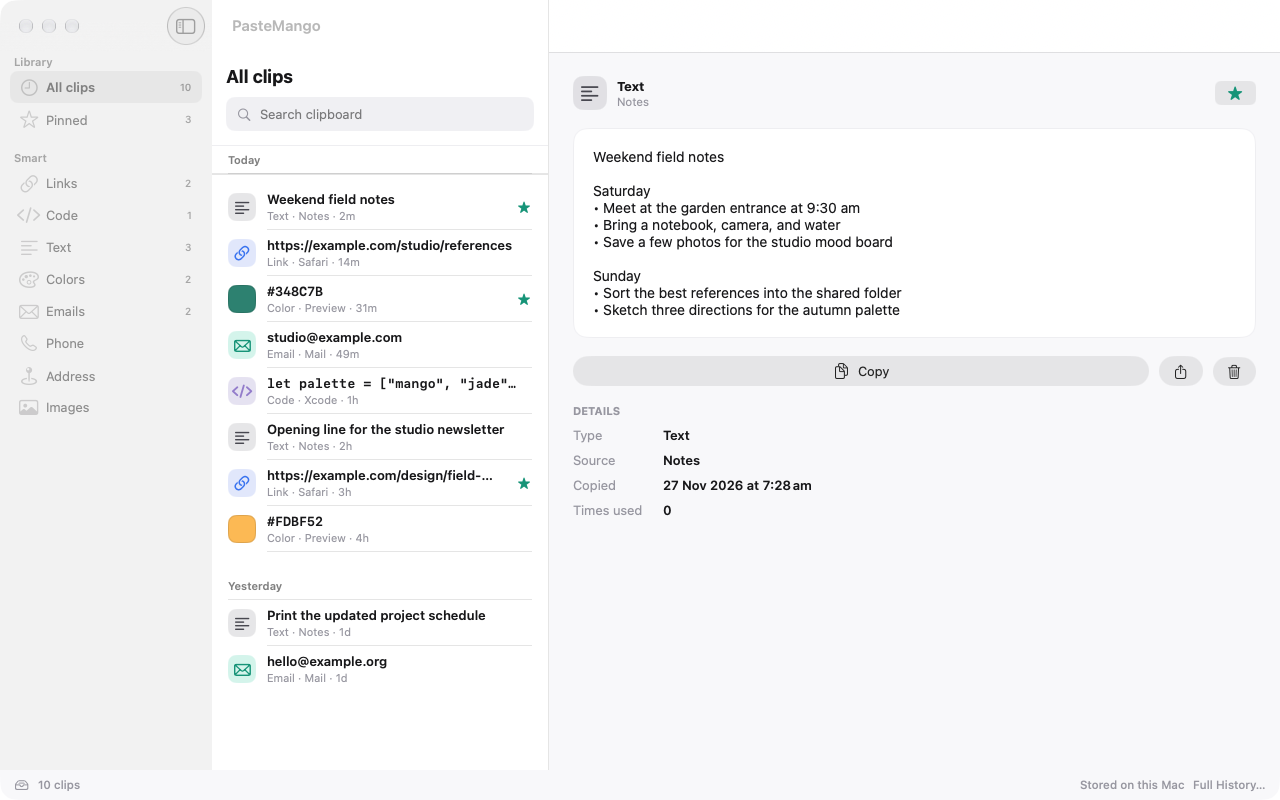
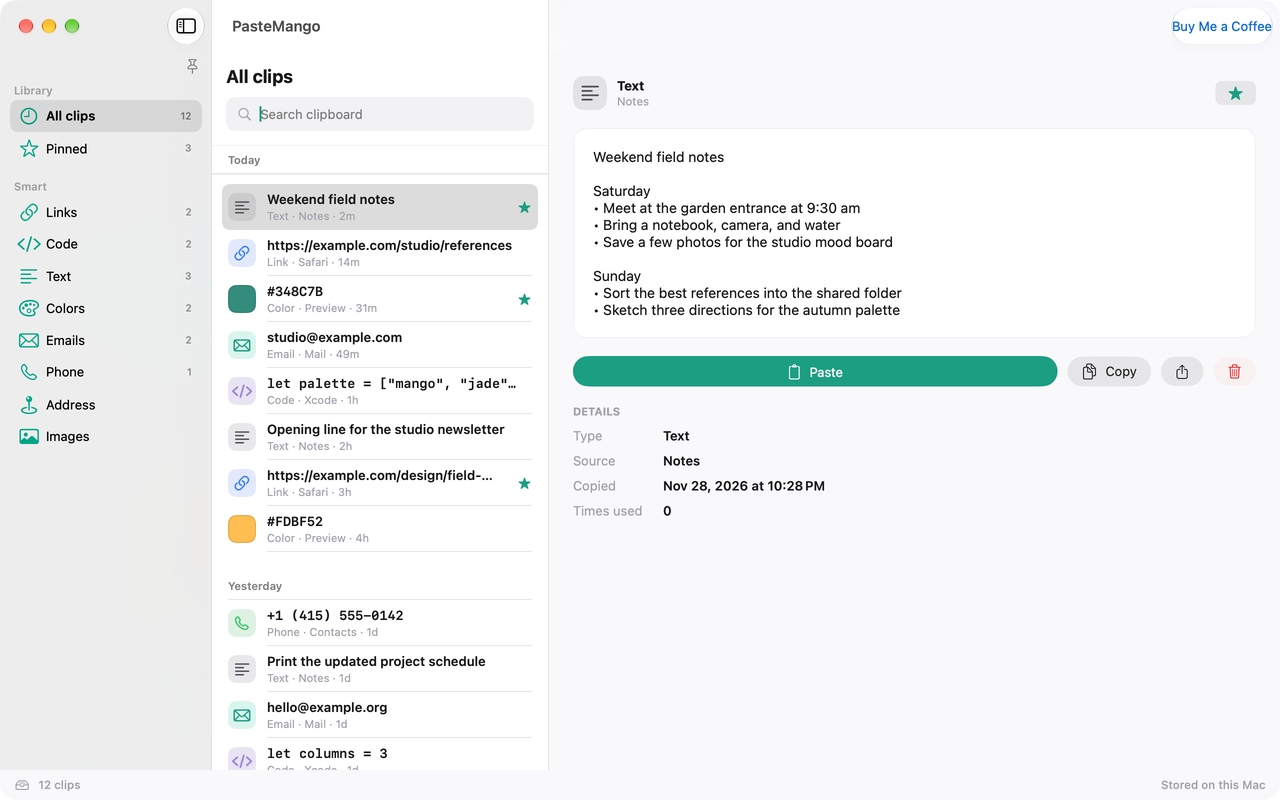
Publish PasteMango 1.1 Mac download

diff --git a/src/data/product-sites/pasteMango.js b/src/data/product-sites/pasteMango.js
@@ -1,32 +1,39 @@
 import { ClipboardList, Keyboard, Search, ShieldCheck } from 'lucide-react'
 
 const supportEmail = 'support@awaisjamil.com'
-const appleLicense = 'https://www.apple.com/legal/internet-services/itunes/dev/stdeula/'
+const downloadUrl = 'https://github.com/awaismirza/PasteMango/releases/download/v1.1/PasteMango-1.1-universal.dmg'
+const coffeeUrl = 'https://buymeacoffee.com/awaismirza'
 
 export const pasteMango = {
   slug: 'pastemango',
   name: 'PasteMango',
   category: 'Clipboard history for Mac',
   icon: '/pastemango/icon.png',
-  seoDescription: 'PasteMango is a native Mac clipboard manager with local history, search, pinned clips, and configurable shortcuts. The Mac App Store release is in preparation.',
+  seoDescription: 'Download PasteMango, a free Mac clipboard manager with full local history, search, pinned clips, and configurable shortcuts.',
   accent: '#16786b',
   accentOnDark: '#64cbbb',
   accentDark: '#095b51',
   accentSoft: 'rgba(22, 120, 107, 0.14)',
   directPages: true,
-  download: { kind: 'coming-soon', note: 'The Mac App Store release is in preparation.' },
+  download: {
+    kind: 'website',
+    url: downloadUrl,
+    label: 'Download for Mac',
+    compactLabel: 'Download for Mac',
+  },
 
   facts: [
     { label: 'Platform', value: 'macOS 14 or later' },
     { label: 'Storage', value: 'On this Mac' },
-    { label: 'Availability', value: 'Coming soon' },
+    { label: 'Price', value: 'Free' },
   ],
 
   hero: {
     eyebrow: 'Clipboard history for Mac',
     headline: 'Find what you copied.',
-    sub: 'Search saved clips, pin what you use often, and put any clip back on the clipboard. Open PasteMango from the menu bar or with a shortcut.',
-    ctas: [{ label: 'Get support', href: '/products/pastemango/support' }],
+    sub: 'Search your full clipboard history, pin what you use often, and reuse saved text and images. PasteMango is free and keeps your clips on your Mac.',
+    ctas: [{ label: 'Buy Me a Coffee', href: coffeeUrl, external: true }],
+    ctaNote: 'Version 1.1 · macOS 14 or later · Apple silicon and Intel. Open the DMG and drag PasteMango into Applications.',
   },
 
   screenshotFormat: 'desktop',
@@ -51,19 +58,20 @@ export const pasteMango = {
     intro: 'Get help with clipboard capture, keyboard shortcuts, or history in PasteMango for Mac.',
     checklist: ['Your macOS version and PasteMango version', 'What you expected and what happened', 'Steps to reproduce the issue using sample text'],
     faqs: [
-      { q: 'Where can I get PasteMango?', a: 'The Mac App Store release is in preparation. PasteMango requires macOS 14 or later.' },
+      { q: 'How do I install PasteMango?', a: `[Download the free PasteMango 1.1 disk image](${downloadUrl}), open it, and drag PasteMango into Applications. Then open PasteMango from Applications. It runs on Apple silicon and Intel Macs with macOS 14 or later.` },
+      { q: 'How do I update my direct download?', a: 'Quit PasteMango, then open the new disk image and replace PasteMango in Applications. Your saved history and preferences stay on your Mac.' },
       { q: 'How do I reuse a saved clip?', a: 'Click the PasteMango icon in the menu bar. Find a clip and click it to copy it back to the clipboard. Switch to the app where you want to use it and paste.' },
       { q: 'Why is a clip missing?', a: 'In Settings → General, check that Monitor clipboard automatically is enabled. Copy a new line of plain text. If macOS prompts for clipboard access, allow it if you want automatic monitoring. PasteMango skips items their source marks as concealed, transient, or automatically generated.' },
       { q: 'What are the default shortcuts?', a: 'Command–Shift–V opens PasteMango, Command–Shift–F opens search, and Command–Shift–P pins the latest clip. They work while PasteMango is running. Change or disable them in Settings → Global keyboard shortcuts.' },
-      { q: 'What happens to older clips?', a: 'The Mac app’s Free view shows the newest 50 saved clips, including pinned clips in that range. Older clips remain stored on your Mac. Use Settings → History → Clear History to remove clips from history, including those outside the Free view.' },
+      { q: 'What happens to older clips?', a: 'All saved clips stay available to search, pin, and reuse. To remove all clips from your history, choose Settings → History → Clear History.' },
       { q: 'How do I start PasteMango at login?', a: 'Enable Launch at login in Settings → General. If macOS asks for approval, open Login Items in System Settings and approve PasteMango.' },
     ],
   },
 
   privacy: {
     title: 'Privacy Policy',
-    lastUpdated: '27 November 2026',
-    seoDescription: 'How PasteMango for Mac handles local clipboard history, settings, and App Store transactions.',
+    lastUpdated: '28 November 2026',
+    seoDescription: 'How PasteMango for Mac handles local clipboard history, settings, and its optional contribution link.',
     summary: 'PasteMango for Mac keeps clipboard history and settings on your Mac. The app keeps clipboard content and usage data out of the publisher’s systems.',
     sections: [
       {
@@ -78,15 +86,15 @@ export const pasteMango = {
         blocks: [
           { p: 'PasteMango uses clipboard history to help you find and reuse clips. The app stores history and preferences locally. It has no cloud sync, PasteMango account, advertising, or analytics.' },
           { p: 'Copying a saved clip puts it back on the macOS clipboard. If you open a saved link or share a clip, macOS passes the item to the app or service you choose.' },
-          { p: 'If an App Store purchase or trial is offered, Apple handles the transaction and restoration. PasteMango reads verified StoreKit transactions to determine access to full history and uses the original trial transaction date to calculate its end.' },
+          { p: `GitHub hosts the Mac download. The optional [Buy Me a Coffee](${coffeeUrl}) link opens an external page in your browser. Buy Me a Coffee handles any contribution you choose to make.` },
         ],
       },
       {
         heading: 'Retention and controls',
         blocks: [
           { p: 'To stop capture, turn off Monitor clipboard automatically in Settings → General or quit PasteMango. You can also manage clipboard access in macOS System Settings where available.' },
-          { p: 'The Free view shows the latest 50 saved clips. Older clips and items saved before you paused capture remain on your Mac.' },
-          { p: 'Delete individual clips in the main window or choose Settings → History → Clear History to remove all clips from history, including clips outside the Free view. These actions mark clips as deleted. Their records can remain in the local database.' },
+          { p: 'Clips saved before you paused capture remain available in your local history.' },
+          { p: 'Delete individual clips in the main window or choose Settings → History → Clear History to remove all saved clips from history. These actions mark clips as deleted. Their records can remain in the local database.' },
         ],
       },
       {
@@ -98,24 +106,20 @@ export const pasteMango = {
 
   terms: {
     title: 'Terms & Conditions',
-    lastUpdated: '27 November 2026',
+    lastUpdated: '28 November 2026',
     seoDescription: 'Release information and terms for PasteMango for Mac.',
-    summary: 'These terms describe the PasteMango Mac release, App Store purchases, and the limits of local clipboard history.',
+    summary: 'These terms describe the free PasteMango Mac download, voluntary contributions, and local clipboard history.',
     sections: [
       {
-        heading: 'App Store licence',
-        blocks: [{ p: `If you obtain PasteMango through the Mac App Store, the licence shown in its listing applies. When the listing provides no custom licence, [Apple’s standard App Store licence](${appleLicense}) applies.` }],
-      },
-      {
-        heading: 'Availability and purchases',
+        heading: 'Free download and contributions',
         blocks: [
-          { p: 'PasteMango is being prepared as a free Mac App Store download. A free 30-day trial and a separate one-time full-history unlock are planned. Availability and local pricing will be shown in the app when the products are offered.' },
-          { p: 'Apple handles purchases and refunds through your App Store account. To restore a purchase, use Restore Purchases with the App Store account used to make it.' },
+          { p: 'The Mac download is free and includes all features and access to your full local clipboard history.' },
+          { p: `Contributions through [Buy Me a Coffee](${coffeeUrl}) are voluntary. Buy Me a Coffee handles contributions on its website.` },
         ],
       },
       {
         heading: 'Local history',
-        blocks: [{ p: 'PasteMango provides a working clipboard history. Keep important material in its original app or another location you control. Clearing history removes clips from the history view, including items outside the Free view.' }],
+        blocks: [{ p: 'PasteMango stores clipboard history on your Mac. Keep important material in its original app or another location you control. Clearing history removes all saved clips from the history view.' }],
       },
       {
         heading: 'Contact and changes',

diff --git a/src/data/products.js b/src/data/products.js
@@ -15,7 +15,6 @@ export const products = [
     slug: 'pastemango',
     type: 'Native macOS app',
     year: '2026',
-    status: 'Coming soon',
     summary: 'Search and reuse the text and images you copy on your Mac, with local history, pins, and global shortcuts.',
     impact: 'Built with SwiftUI and SwiftData, with a searchable menu-bar view and clipboard monitoring you can pause.',
     stack: ['Swift', 'SwiftUI', 'SwiftData', 'macOS'],
